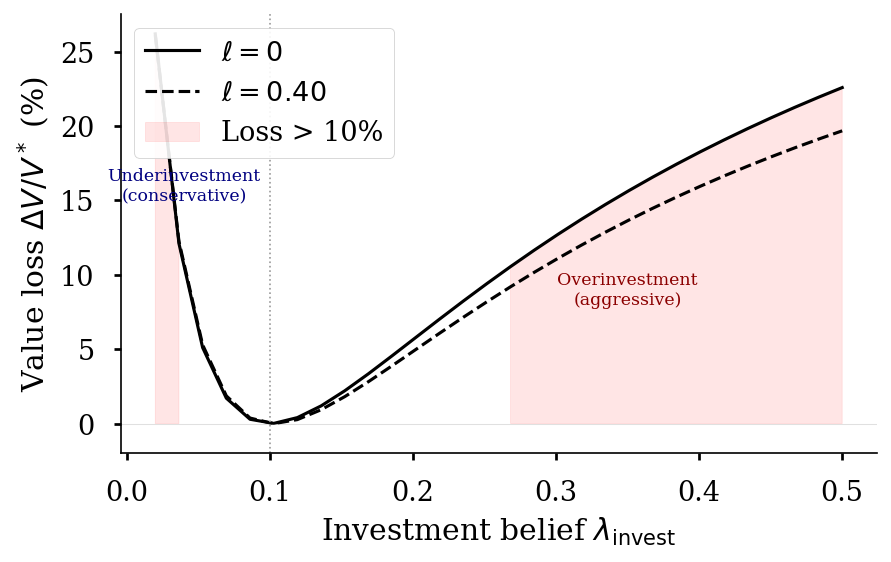
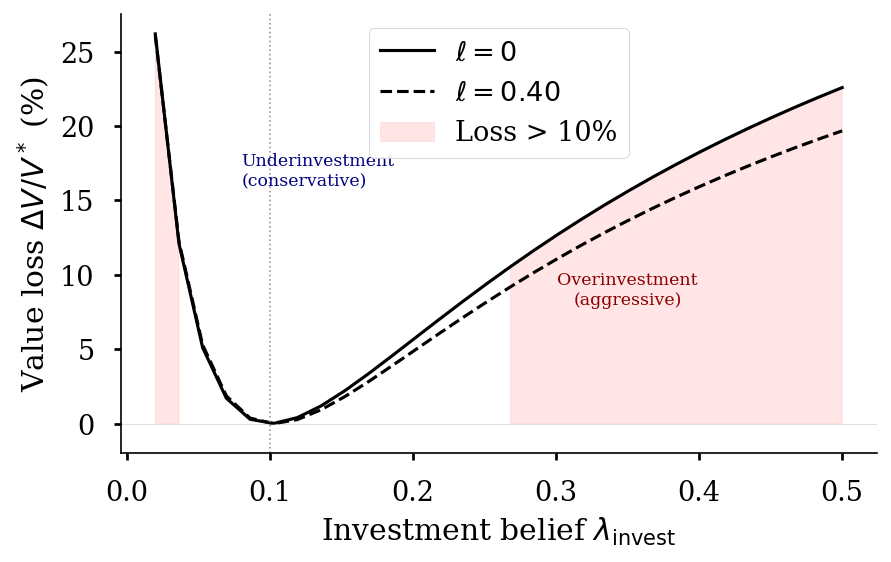
Fix investment dilemma figure: move annotation, center legend
Shift "Underinvestment (conservative)" label to x=0.08 with left
alignment to clear the y-axis and the ℓ=0 curve. Move legend from
upper-left to upper-center.

diff --git a/src/ai_lab_investment/figures/paper.py b/src/ai_lab_investment/figures/paper.py
@@ -627,14 +627,14 @@ def create_investment_dilemma() -> plt.Figure:
 
     ax.set_xlabel(r"Investment belief $\lambda_{\mathrm{invest}}$")
     ax.set_ylabel(r"Value loss $\Delta V / V^*$ (%)")
-    ax.legend(loc="upper left", framealpha=0.9)
+    ax.legend(loc="upper center", framealpha=0.9)
     ax.set_ylim(bottom=-2)
 
     ax.annotate(
         "Underinvestment\n(conservative)",
-        xy=(0.04, 15),
+        xy=(0.08, 16),
         fontsize="small",
-        ha="center",
+        ha="left",
         color="navy",
     )
     ax.annotate(
